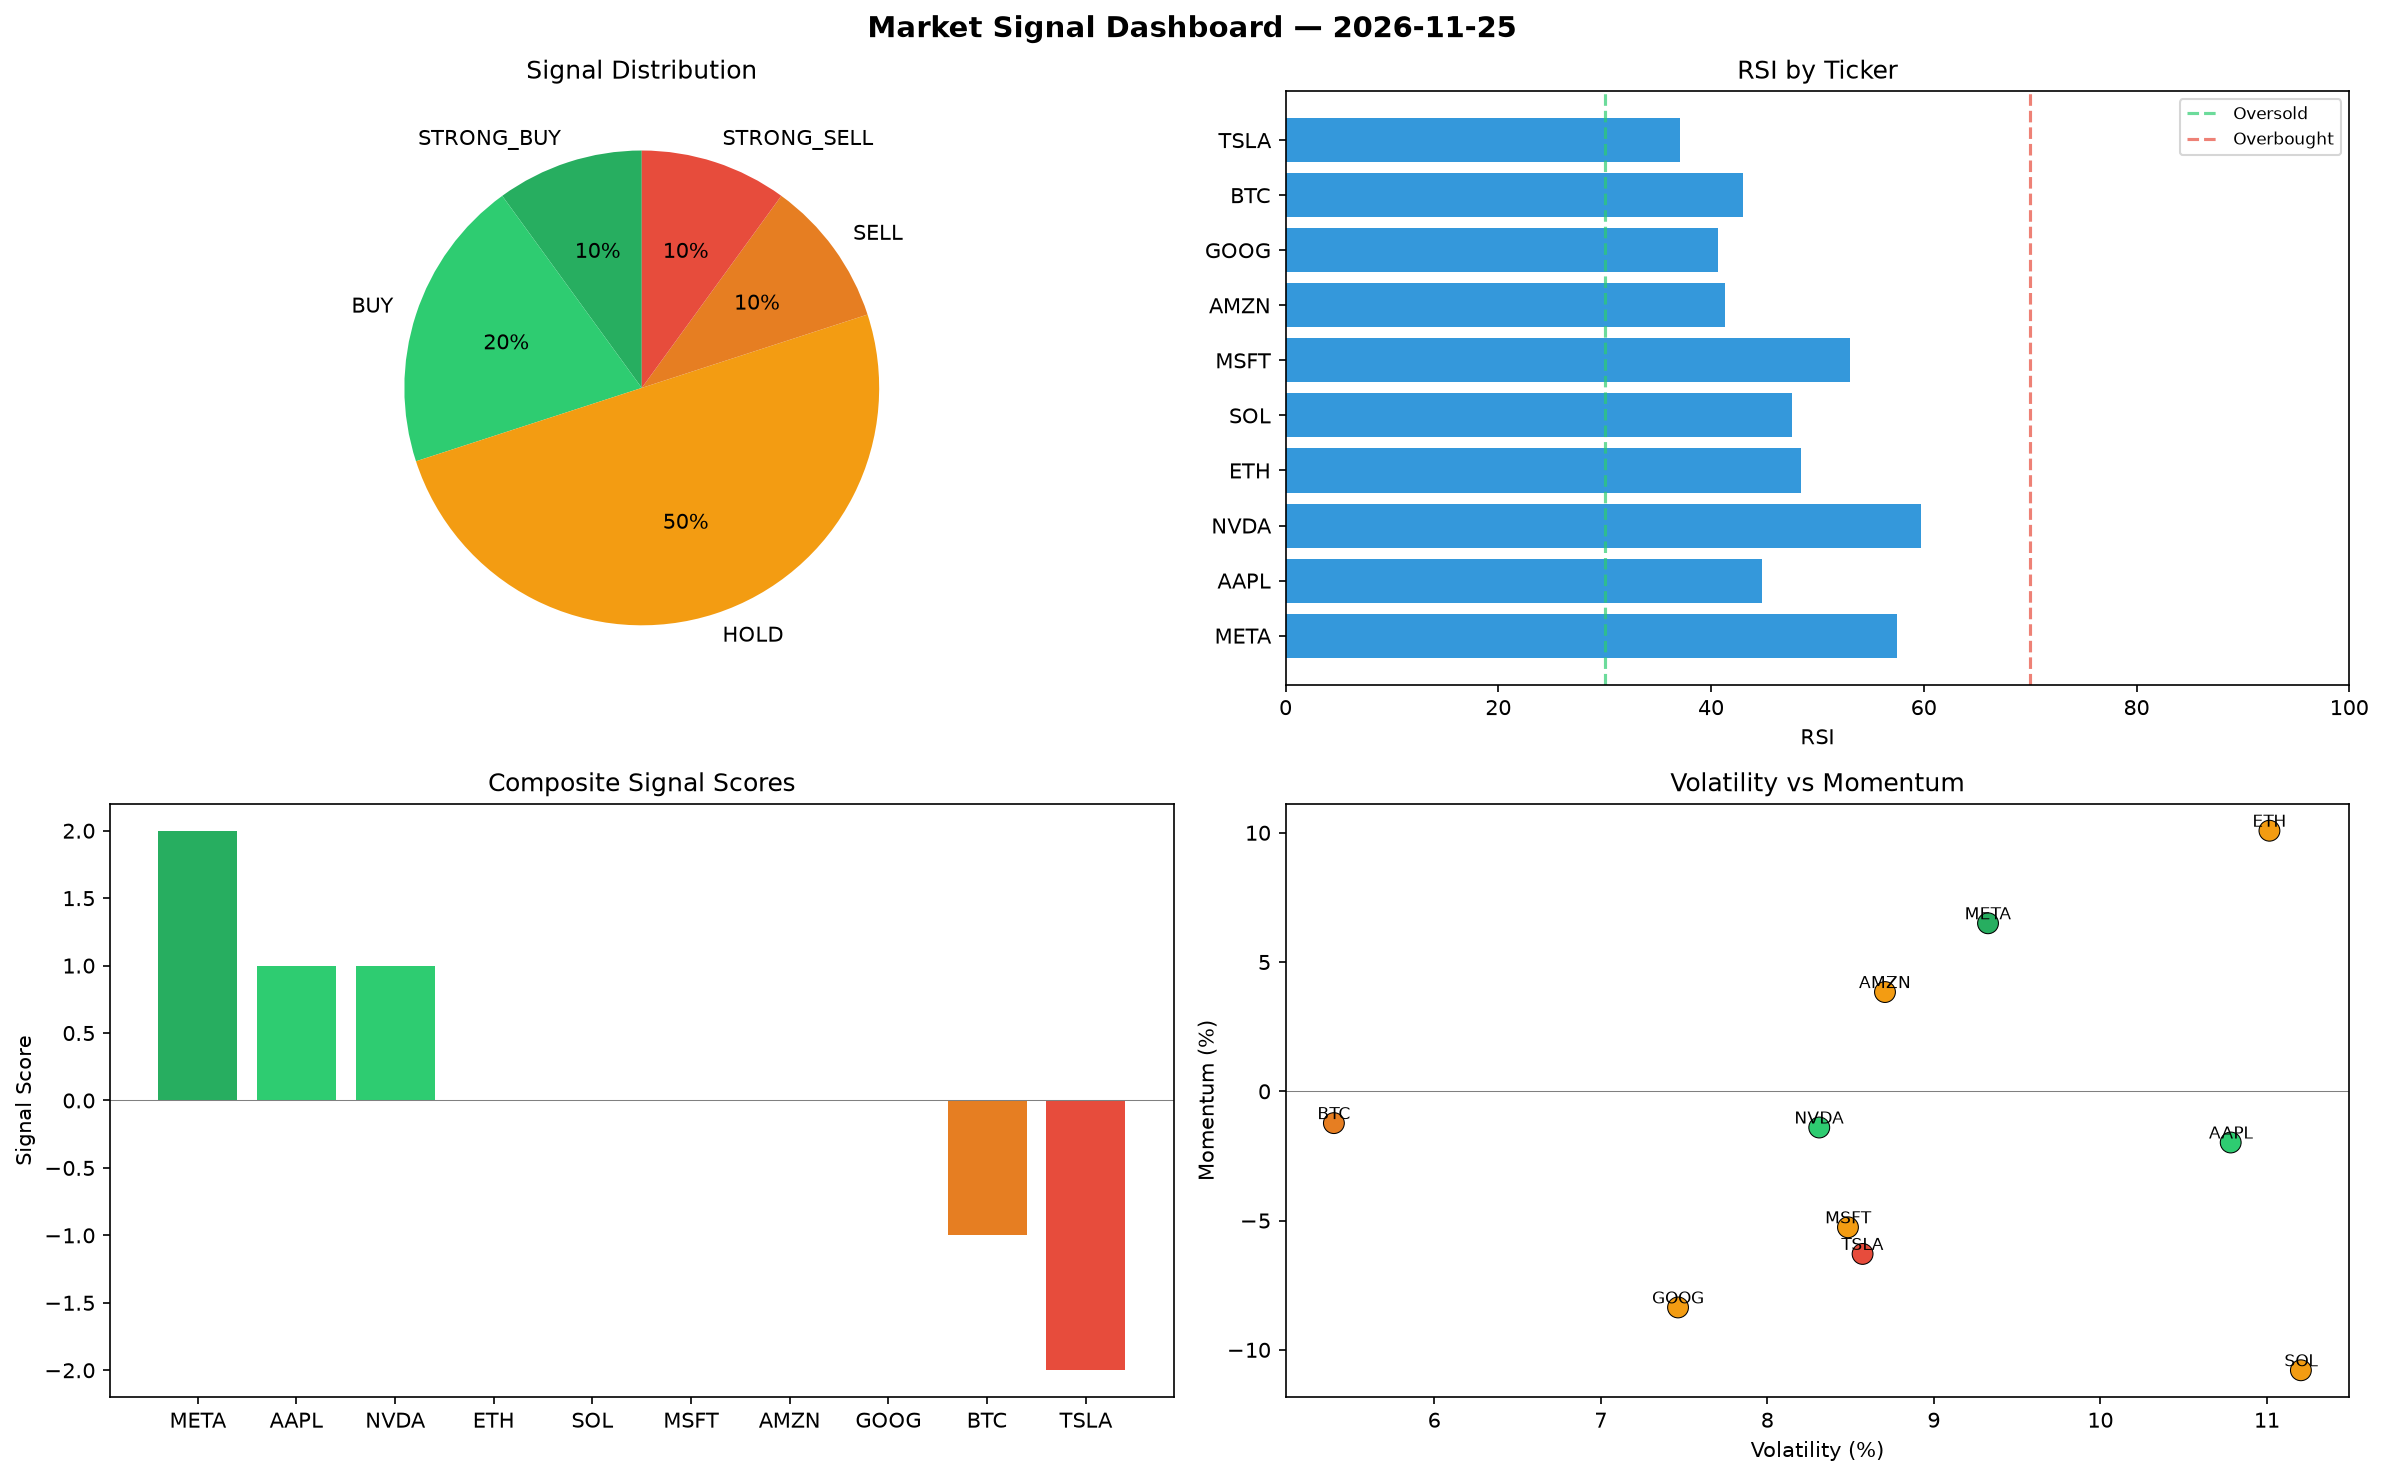
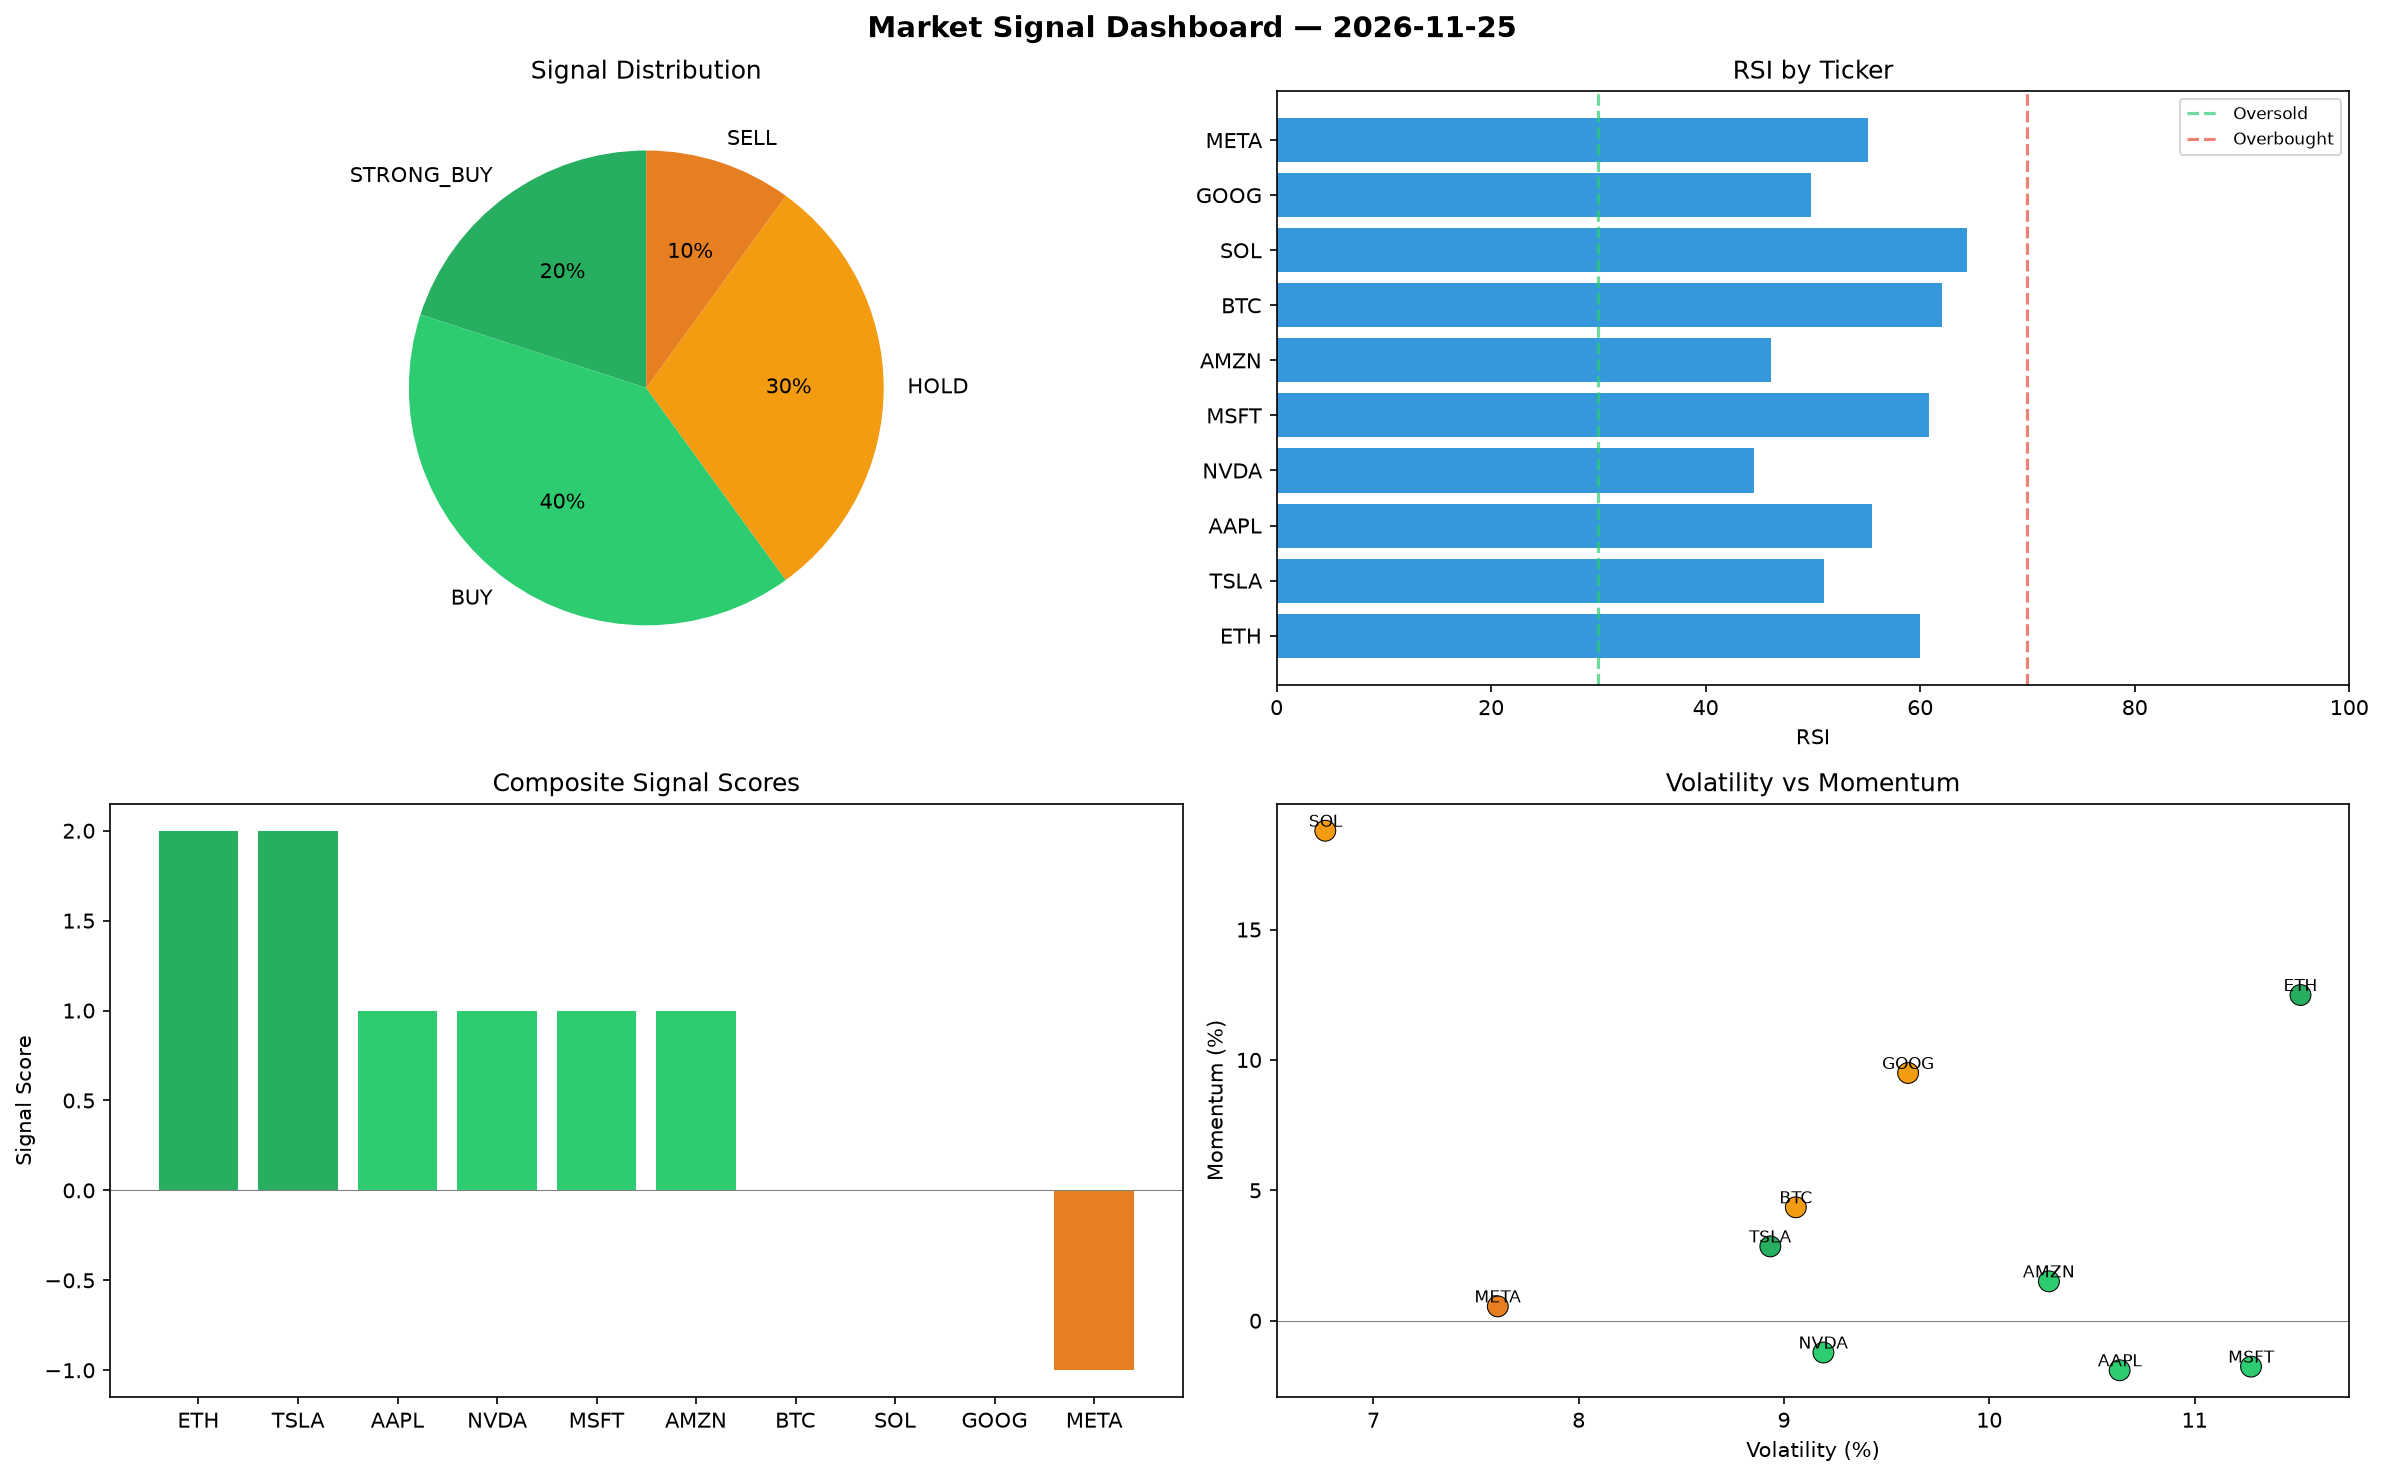
automated-bots: market signals 2026-11-25T23:12

diff --git a/logs/2026-11-25.md b/logs/2026-11-25.md
@@ -1,6 +1,6 @@
 # Market Signal Report — 2026-11-25
 
-**Run ID:** `35affb2b4c` | **Buy:** 3 | **Sell:** 2 | **Hold:** 5
+**Run ID:** `99d13fa837` | **Buy:** 6 | **Sell:** 1 | **Hold:** 3
 
 ![Dashboard](2026-11-25_dashboard.png)
 
@@ -8,28 +8,28 @@
 
 | Ticker | Price | Signal | Score | RSI | Momentum | Confidence |
 |--------|-------|--------|-------|-----|----------|------------|
-| META | $1400.55 | **STRONG_BUY** | 2 | 57.49 | 0.065 | 0.5 |
-| AAPL | $3306.75 | **BUY** | 1 | 44.76 | -0.0198 | 0.25 |
-| NVDA | $3820.55 | **BUY** | 1 | 59.72 | -0.014 | 0.25 |
-| ETH | $396.24 | **HOLD** | 0 | 48.43 | 0.1008 | 0.0 |
-| SOL | $4502.87 | **HOLD** | 0 | 47.58 | -0.1079 | 0.0 |
-| MSFT | $549.66 | **HOLD** | 0 | 53.11 | -0.0526 | 0.0 |
-| AMZN | $3696.14 | **HOLD** | 0 | 41.29 | 0.0384 | 0.0 |
-| GOOG | $410.62 | **HOLD** | 0 | 40.62 | -0.0836 | 0.0 |
-| BTC | $3526.51 | **SELL** | -1 | 42.96 | -0.0123 | 0.25 |
-| TSLA | $414.62 | **STRONG_SELL** | -2 | 37.09 | -0.0629 | 0.5 |
+| ETH | $3519.26 | **STRONG_BUY** | 2 | 60.0 | 0.1249 | 0.5 |
+| TSLA | $876.98 | **STRONG_BUY** | 2 | 51.08 | 0.0285 | 0.5 |
+| AAPL | $4533.82 | **BUY** | 1 | 55.52 | -0.019 | 0.25 |
+| NVDA | $1073.03 | **BUY** | 1 | 44.47 | -0.0122 | 0.25 |
+| MSFT | $3738.76 | **BUY** | 1 | 60.81 | -0.0176 | 0.25 |
+| AMZN | $4141.5 | **BUY** | 1 | 46.14 | 0.0151 | 0.25 |
+| BTC | $3871.91 | **HOLD** | 0 | 62.03 | 0.0435 | 0.0 |
+| SOL | $4575.64 | **HOLD** | 0 | 64.36 | 0.1879 | 0.0 |
+| GOOG | $1742.72 | **HOLD** | 0 | 49.79 | 0.095 | 0.0 |
+| META | $548.87 | **SELL** | -1 | 55.16 | 0.0055 | 0.25 |
 
 ## Delta vs Yesterday
 
 | Ticker | Today | Yesterday | Price Change | Signal Changed |
 |--------|-------|-----------|-------------|----------------|
-| META | STRONG_BUY | HOLD | 📈 64.3% | ⚠ YES |
-| AAPL | BUY | HOLD | 📈 29.76% | ⚠ YES |
-| NVDA | BUY | STRONG_SELL | 📉 -9.57% | ⚠ YES |
-| ETH | HOLD | HOLD | 📉 -91.81% | — |
-| SOL | HOLD | BUY | 📉 -0.28% | ⚠ YES |
-| MSFT | HOLD | HOLD | 📉 -84.78% | — |
-| AMZN | HOLD | STRONG_BUY | 📉 -3.04% | ⚠ YES |
-| GOOG | HOLD | SELL | 📈 694.24% | ⚠ YES |
-| BTC | SELL | HOLD | 📈 475.71% | ⚠ YES |
-| TSLA | STRONG_SELL | STRONG_BUY | 📉 -91.86% | ⚠ YES |
+| ETH | STRONG_BUY | HOLD | 📉 -27.22% | ⚠ YES |
+| TSLA | STRONG_BUY | STRONG_BUY | 📉 -82.78% | — |
+| AAPL | BUY | HOLD | 📈 77.91% | ⚠ YES |
+| NVDA | BUY | STRONG_SELL | 📉 -74.6% | ⚠ YES |
+| MSFT | BUY | HOLD | 📈 3.51% | ⚠ YES |
+| AMZN | BUY | STRONG_BUY | 📈 8.65% | ⚠ YES |
+| BTC | HOLD | HOLD | 📈 532.1% | — |
+| SOL | HOLD | BUY | 📈 1.33% | ⚠ YES |
+| GOOG | HOLD | SELL | 📈 3270.83% | ⚠ YES |
+| META | SELL | HOLD | 📉 -35.61% | ⚠ YES |
